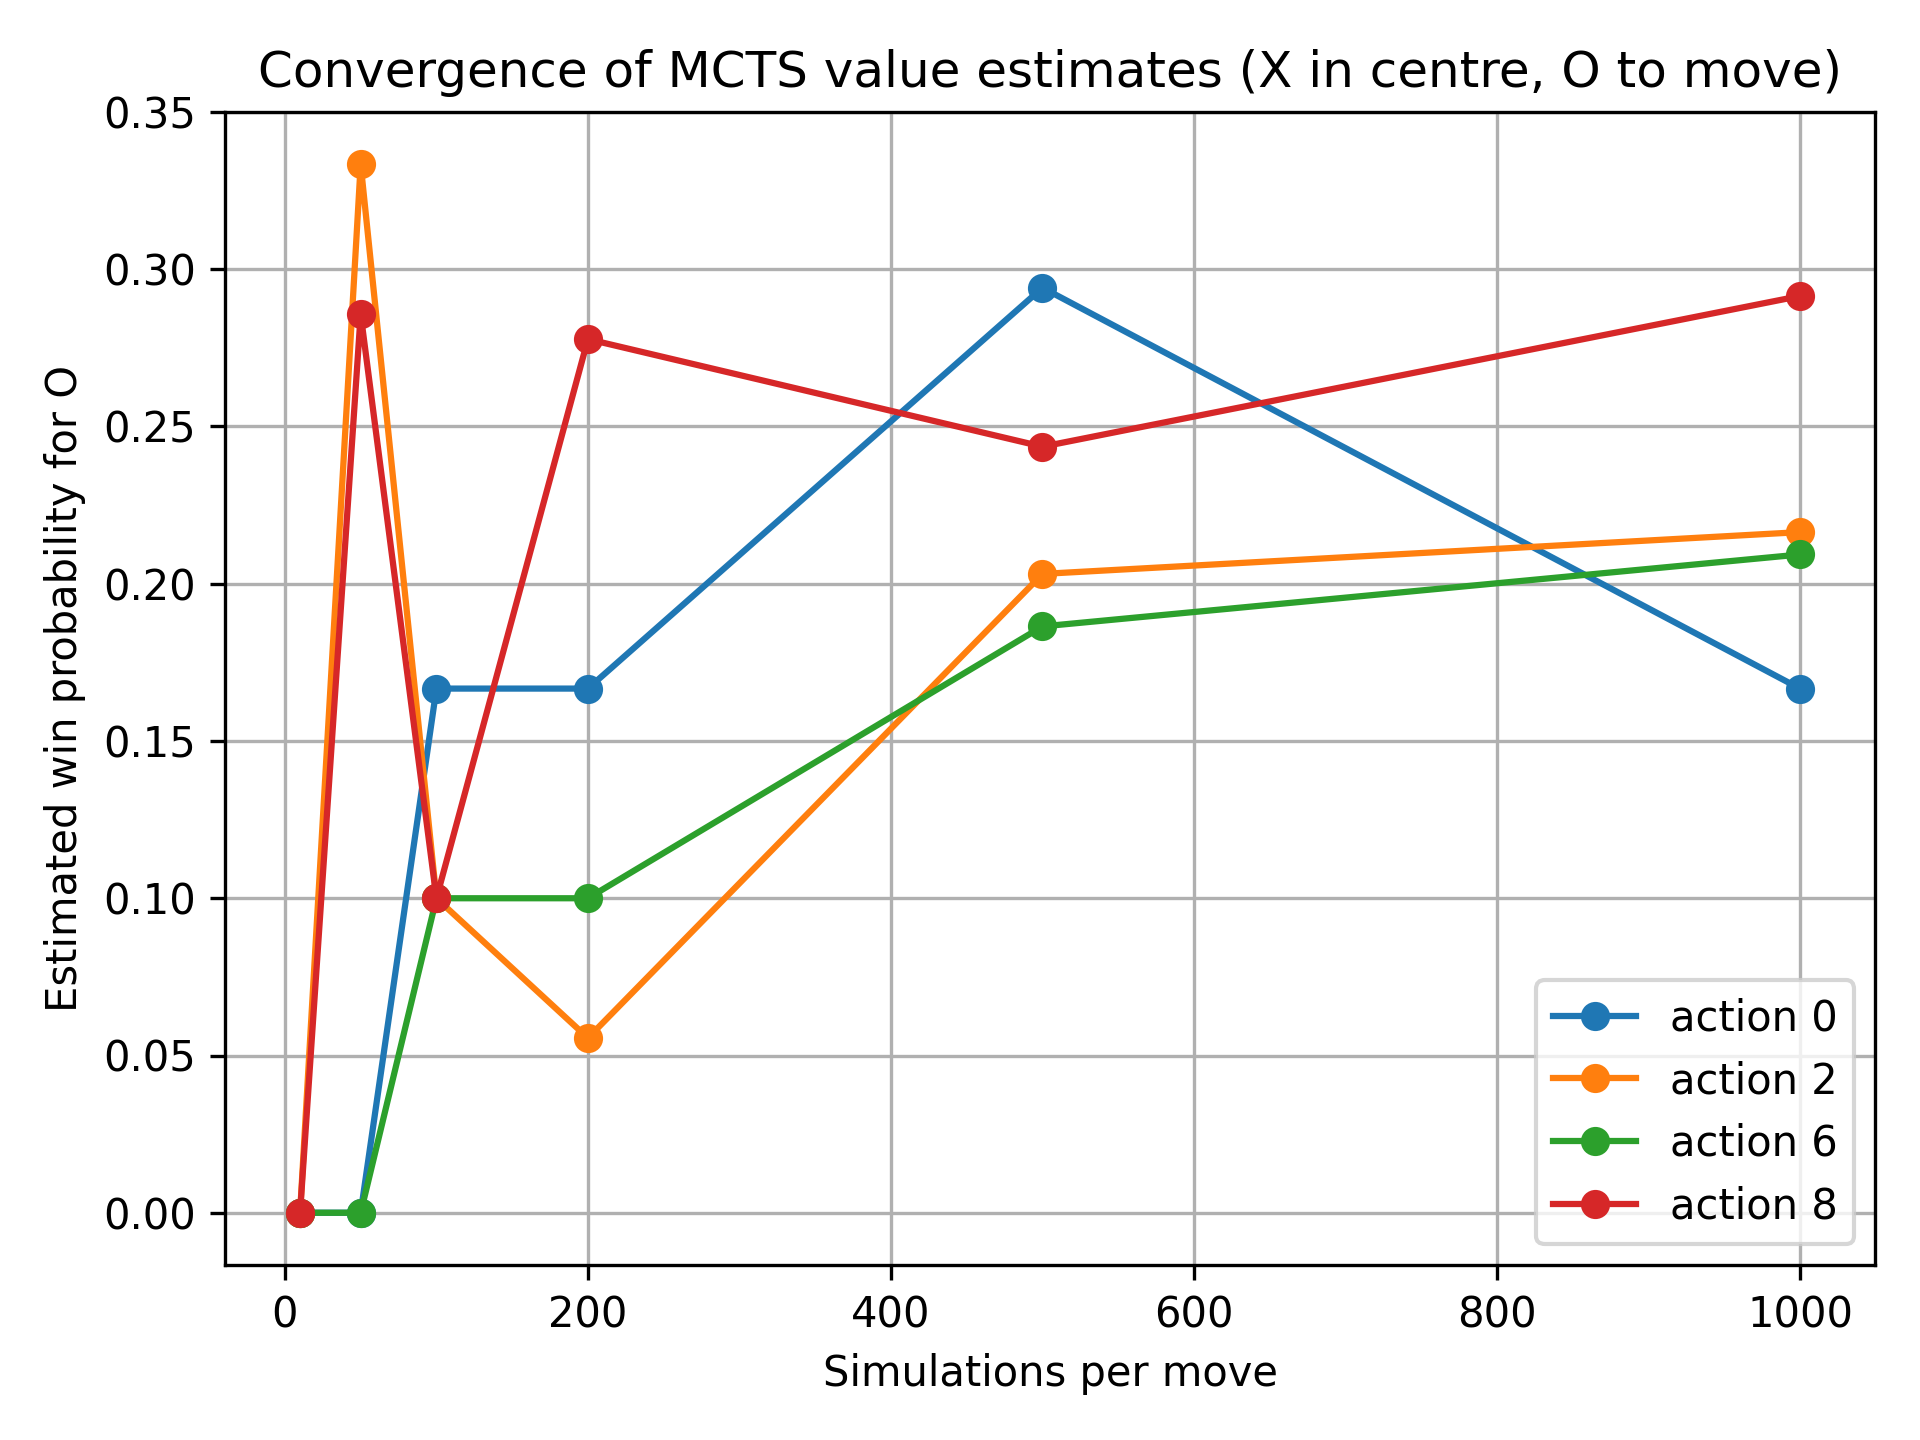
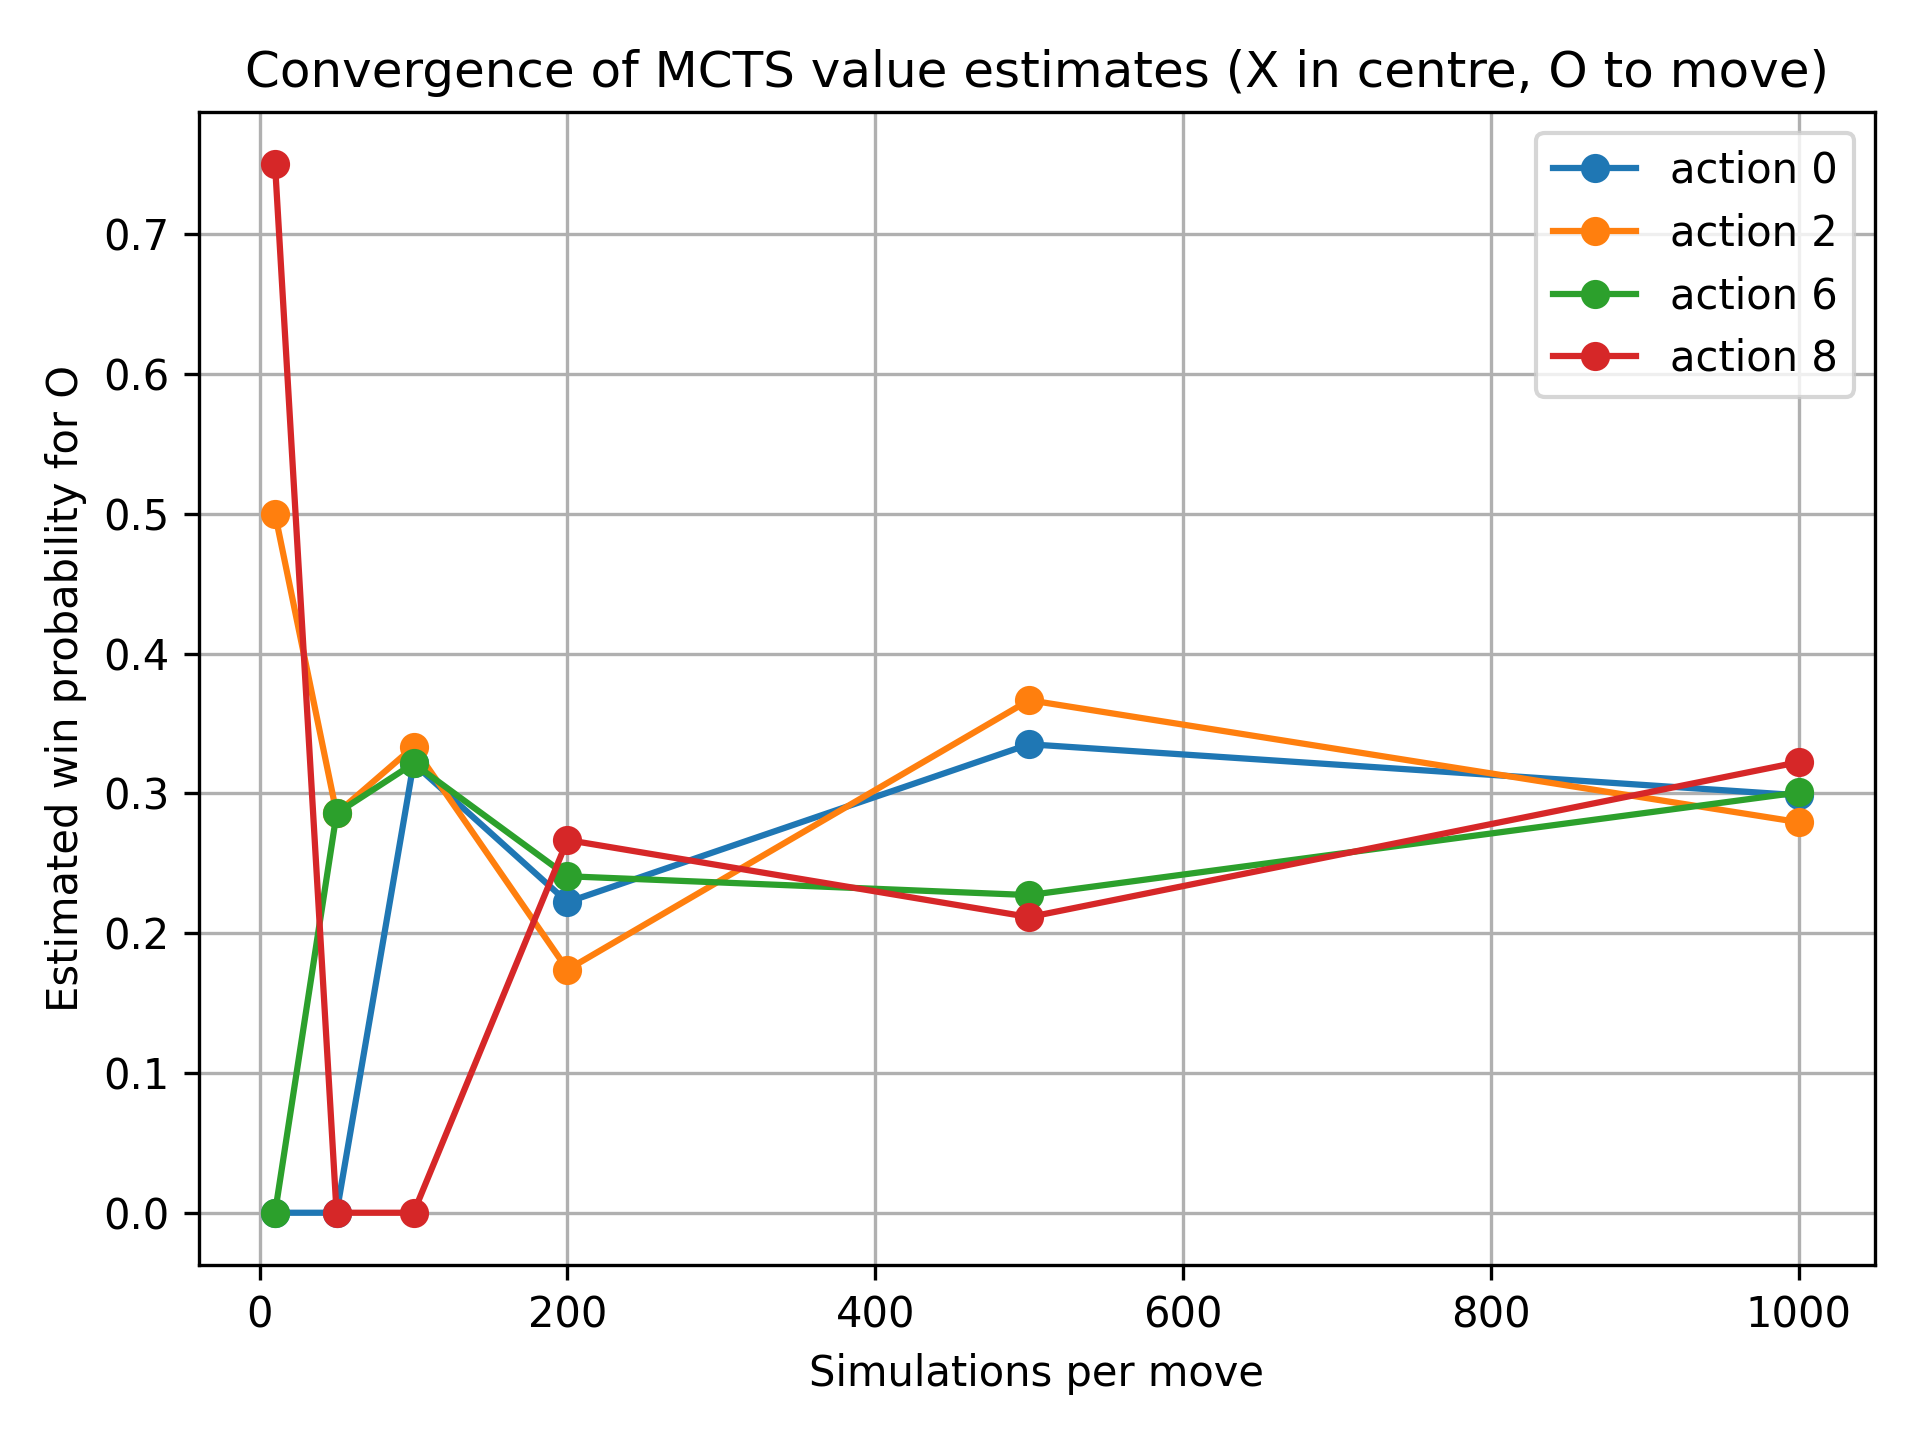
new draw value added

diff --git a/Assignment3.py b/Assignment3.py
@@ -59,7 +59,8 @@ class TicTacToeState:
         """
         Reward from O's perspective. only defined in terminal states
         - 1 if O win, 
-        - 0 if X wins of draw
+        - 0 if X wins
+        - 0.5 if draw
         """
         done, winner = self.is_terminal()
         if not done:
@@ -69,7 +70,7 @@ class TicTacToeState:
         elif winner == player_X:
             return 0.0
         else:  # draw
-            return 0.0
+            return 0.5
 
     def pretty(self) -> str:
         # 3x3 representation of the board
